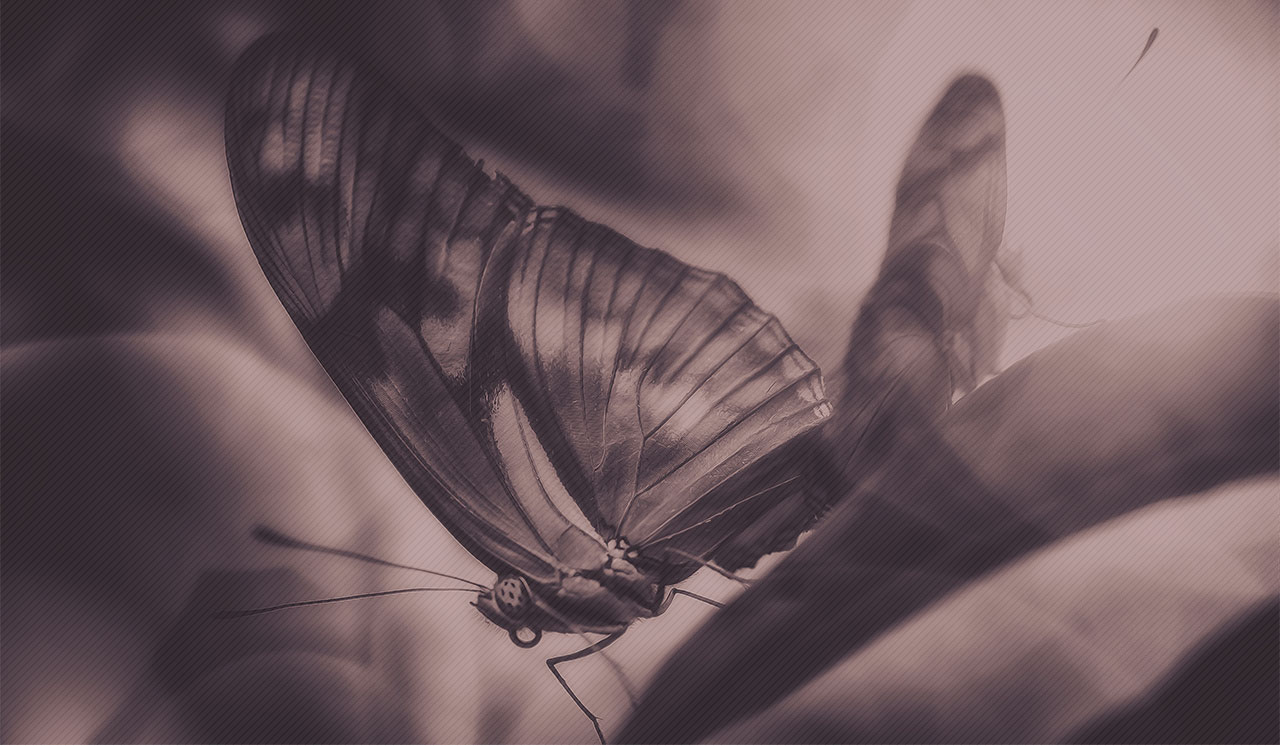
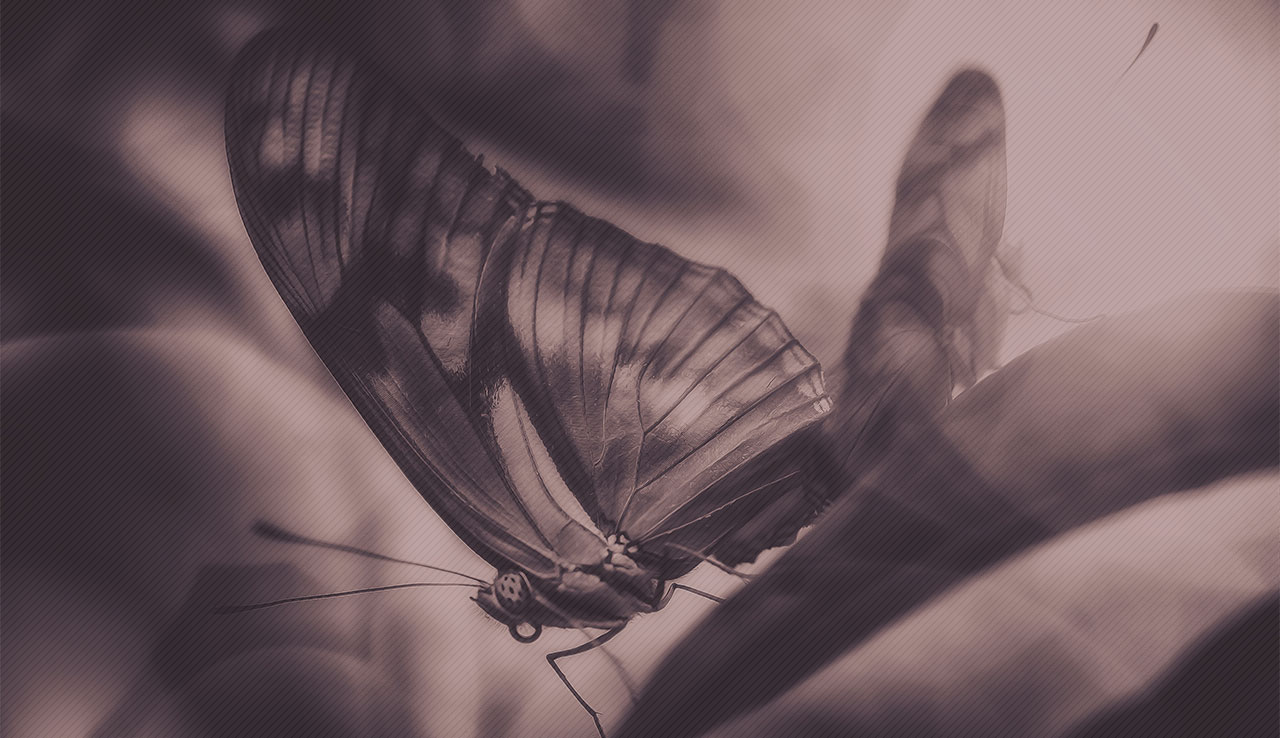
First "working" version

diff --git a/index.html b/index.html
@@ -7,15 +7,28 @@
 
     <title>Pierre-Yves Piron - Accompagnant de la vie émotionnelle</title>
 
+    <link rel="stylesheet" href="https://use.fontawesome.com/releases/v5.7.1/css/all.css" integrity="sha384-fnmOCqbTlWIlj8LyTjo7mOUStjsKC4pOpQbqyi7RrhN7udi9RwhKkMHpvLbHG9Sr"
+        crossorigin="anonymous">
     <link href="https://fonts.googleapis.com/css?family=PT+Sans" rel="stylesheet">
     <link rel="stylesheet" href="https://unpkg.com/purecss@1.0.0/build/pure-min.css">
     <link rel="stylesheet" href="./styles/main.css">
 </head>
 
 <body>
+    <a name="section-1"></a>
     <section class="pure-g home">
         <div class="menu pure-u-1-1">
-            <h1>Pierre-Yves Piron</h1>
+            <div class="pure-g">
+                <div class="pure-u-2-24"></div>
+                <div class="pure-u-3-24 menu-item"><a href="#section-1">Accueil</a></div>
+                <div class="pure-u-3-24 menu-item"><a href="#section-2">La PCER</a></div>
+                <div class="pure-u-8-24">
+                    <img class="pure-img logo" src="./images/avepy-logo.png" alt="Pierre-Yves Piron" />
+                </div>
+                <div class="pure-u-3-24 menu-item"><a href="#section-4">Qui suis-je ?</a></div>
+                <div class="pure-u-3-24 menu-item"><a href="#section-5">Contact</a></div>
+                <div class="pure-u-2-24"></div>
+            </div>
         </div>
         <div class="pure-u-1-1">
             <div class="pure-g">
@@ -24,17 +37,16 @@
                     <div class="quote">
                         <p>
                             « Le premier pas pour avoir ce que vous voulez, c’est d’avoir le courage de quitter ce que
-                            vous
-                            ne voulez plus »
+                            vous ne voulez plus »
                         </p>
                         <p class="author"> - Auteur inconnu</p>
-
                     </div>
                 </div>
             </div>
         </div>
 
     </section>
+    <a name="section-2"></a>
     <section class="pure-g section-1">
 
         <div class="pure-u-1-2"></div>
@@ -46,18 +58,50 @@
                 classique de type psychanalytique, où les blessures d’hier sont le fondement essentiel du chemin vers
                 soi. Vous ne reviendrez que brièvement sur votre histoire de vie. La PCER s’attache aux comportements
                 présents, aux émotions qu’ils engendrent et aux croyances qui les nourrissent. « L'avenir n'est jamais
-                que du présent à mettre en ordre. » (Antoine de Saint-Exupéry ; Citadelle - posthume, 1948) <br />
+                que du présent à mettre en ordre. » (Antoine de Saint-Exupéry ; Citadelle - posthume, 1948)
+            </p>
+            <p>
                 La PCER fait partie des TCC (Thérapie Comportementale et Cognitive), dont Albert Ellis est l’un des
                 pionniers aux Etats-Unis dès les années 50. Son objectif : la prise de conscience du lien entre nos
                 émotions et notre cognitif. Notre système de pensées est constitué de l’ensemble de nos croyances,
                 reçues de notre éducation, imposées ou influencées par les codes de la société ou le fruit de nos
                 cheminements personnels.
             </p>
-            <a href="#" class="pure-button button-primary">En savoir plus</a>
+            <a class="pure-button button-primary button-show-detail" onclick="showMore(this)" data-section="section-2-detail">En
+                savoir plus</a>
+
+            <div id="section-2-detail" class="detail">
+                <p>
+                    La PCER est une véritable boite à outils, élaborée par Albert Ellis, et basée sur le principe de
+                    l’ABC. A étant l’événement déclencheur (Adversities en anglais), B la croyance (Belief en anglais)
+                    et C les effets ou émotions nuisibles (Consequences en anglais). Nous ne maîtrisons pas toujours
+                    les facteurs déclenchants et nos émotions sont spontanées et naturelles. Par contre ce que nous
+                    pensons et ressassons, nos dialogues intérieurs souvent irrationnels, intensifient, déforment et
+                    troublent notre vie émotionnelle. L’essentiel du travail consiste donc à identifier ses
+                    raisonnements ou « croyances » parasites afin de revenir vers un mode de pensée rationnel.
+                </p>
+                <p>
+                    Enfin, la PCER est basée sur un relationnel humain / humain, où l’accompagnant s’implique dans un
+                    dialogue ouvert. Pas de monologue face à une écoute bienveillante, mais beaucoup d’échanges, de
+                    partage d’expérience et d’explications concrètes. Souvent, des « devoirs » sont proposés afin
+                    d’avancer entre les séances de travail ou pour introduire et préparer le thème de la séance
+                    suivante. Le passage à l’écrit est un excellent moyen de fixer et de matérialiser nos ressentis, de
+                    prendre de la distance vis-à-vis de nos raisonnements et des buts que nous nous fixons pour aller
+                    mieux, pas simplement pour se sentir mieux.
+                </p>
+                <p>
+                    Pour aller plus loin : <br />
+                    <a href="http://www.psychologies.com/Moi/Se-connaitre/Comportement/Articles-et-Dossiers/La-PCER-a-l-assaut-de-nos-fausses-croyances">Psycologie.com
+                        - La PCER à l’assaut de nos fausses croyances</a><br />
+                    <a href="http://albertellis.org/">The Albert Ellis Institute</a>
+                </p>
+
+            </div>
         </div>
 
     </section>
 
+    <a name="section-3"></a>
     <section class="pure-g section-2">
 
         <div class="pure-u-3-24"></div>
@@ -114,13 +158,13 @@
 
     </section>
 
-
+    <a name="section-4"></a>
     <section class="pure-g section-4">
 
         <div class="pure-u-3-24"></div>
 
         <div class="pure-u-6-24">
-            <img src="images/avepy-portrait.jpg" />
+            <img class="pure-img" src="images/avepy-portrait.jpg" />
         </div>
 
         <div class="pure-u-1-24"></div>
@@ -137,7 +181,44 @@
                 Mon histoire de vie, comme tant d’autres, a été jalonnée de beaucoup de joies mais aussi de nombreuses
                 épreuves.
             </p>
-            <a href="#" class="pure-button button-primary">En savoir plus</a>
+            <a class="pure-button button-primary button-show-detail" onclick="showMore(this)" data-section="section-4-detail">En
+                savoir plus</a>
+            <div id="section-4-detail" class="detail">
+                <p>
+                    Très jeune, j’ai appris la douleur de la maladie qui frappe et emporte des êtres chers. Plus tard
+                    j’ai connu les difficultés liées à la séparation puis au divorce. J’ai dû également faire face à la
+                    maladie alcoolique dans mon entourage proche. En 2015 enfin, mon licenciement après plus de trente
+                    années de service m’a plongé dans le parcours du combattant d’un demandeur d’emploi et toutes ses
+                    conséquences psychique, sociale et familiale. Par-dessus tout, je connais les troubles et les
+                    effets dévastateurs de la loyauté familiale exacerbée par l’emprise d’un mouvement à caractère
+                    sectaire. J’ai connu 40 ans de manipulation mentale et d’emprisonnement émotionnel au service d’une
+                    « religion » qui se nourrit de la fragilité humaine. Au fil des années, elle a élaboré un système
+                    profondément destructeur, qui étouffe ce qu’il y a de plus intime au fond de chacun de ses membres,
+                    les privant de leur conscience individuelle, de leurs émotions et de leur liberté de penser, de
+                    choisir et d’agir.
+                </p>
+                <p>
+                    Le choix d’une reconversion professionnelle centrée sur la relation d’aide aux personnes fragiles
+                    et en difficulté, m’a conduit en 2016 vers la formation d’AES, Accompagnant Educatif et Social. Je
+                    suis Diplômé d’Etat depuis décembre 2017 et en poste dans un collège en tant qu’Accompagnant
+                    d’Elève en Situation de Handicap depuis avril 2018. Parallèlement, j’ai suivi durant deux ans, une
+                    formation de coach basée sur la PCER ou Psychologie-Cognitive-Emotivo-Rationnelle. En effet, en
+                    proie à des problèmes émotionnels bloquants en lien avec mon histoire de vie, j’ai cherché de
+                    l’aide et ai rencontré Cyril Malka via son site internet (<a href="https://malka.fr">www.malka.fr</a>).
+                    Après seulement quatre mois d’accompagnement durant lesquels nous avons travaillé ensemble, durant
+                    lesquels j’ai pleuré mais également beaucoup ri (l’humour ayant toujours eu malgré tout une place
+                    centrale dans ma vie), j’ai accepté sa proposition de formation. Aider à mon tour, comme je l’ai
+                    été, à sortir de la dictature des émotions pour retrouver rapidement la sérénité à laquelle chacun
+                    d’entre nous aspire, s’est révélé être un passage de relais naturel.
+                </p>
+                <p>
+                    Accompagnant à la Vie Emotionnelle est le terme qui m’a semblé donner son sens à ma démarche.
+                    Désormais apaisé, riche de ces acquis et de mes expériences, je sais aujourd’hui que je peux
+                    réellement vous soutenir pour sortir de la dictature des émotions et venir à bout en quelques mois,
+                    de ces combats intérieurs douloureux, épuisants et bloquants.
+                </p>
+
+            </div>
         </div>
 
     </section>
@@ -148,8 +229,15 @@
         <div class="pure-u-3-24"></div>
 
         <div class="pure-u-18-24 contact content">
-            <h2>Me contacter</h2>
-            
+            <div class="pure-g">
+                <div class="pure-u-8-24"></div>
+                <div class="pure-u-8-24 contact-sheet">
+                    <h2>Me contacter</h2>
+                    <p>Pierre-Yves Piron</p>
+                    <p><a href="mailto:contact@avepy.fr">contact@avepy.fr</a></p>
+                    <p>02 98 12 34 56</p>
+                </div>
+            </div>
         </div>
 
     </section>
@@ -162,6 +250,38 @@
         </div>
     </footer>
 
+
+    <script type="text/javascript">
+
+        function addClass(element, className) {
+
+            const classes = element.className.split(' ');
+            if (classes.indexOf(className) === -1) {
+                element.className += ' ' + className;
+            }
+        }
+
+        function showMore(element) {
+
+            if (!element.dataset || !element.dataset.section) {
+                console.error('Missing "data-section" attribute.');
+                return false;
+            }
+
+            const section = document.getElementById(element.dataset.section);
+            if (!section) {
+                console.error(`Failed to find "${element.dataset.section}" in document`)
+                return false;
+            }
+
+            const className = 'more';
+
+            addClass(element, className);
+            addClass(section, className);
+
+            return false;
+        }
+    </script>
 </body>
 
 </html>

diff --git a/styles/main.css b/styles/main.css
@@ -1,6 +1,6 @@
 body {
     font-family: 'Myriad Pro', 'PT Sans', sans-serif;
-    color: #33282c;
+    color: #373737;
     line-height: 1.5em;
 }
 
@@ -22,16 +22,39 @@ h2 {
     background-image: url('../images/avepy-home-background.jpg');
     background-repeat: no-repeat;
     background-size: 100vw;
-    height: 100vh;
+    min-height: 100vh;
+}
+
+.logo {
+    margin: auto;
 }
 
 .menu {
     text-align: center;
     margin: 4em 0 8em; 
+    vertical-align: center;
+}
+
+.menu-item {
+    display: -webkit-box;   /* OLD: Safari,  iOS, Android browser, older WebKit browsers.  */
+    display: -moz-box;      /* OLD: Firefox (buggy) */
+    display: -ms-flexbox;   /* MID: IE 10 */
+    display: -webkit-flex;  /* NEW, Chrome 21–28, Safari 6.1+ */
+    display: flex; 
+}
+
+.menu-item a, .menu-item a:hover, .menu-item a:visited {
+    text-align: center;
+    margin: auto;
+    font-size: 1.1em;
+    color: white;
+    text-transform: uppercase;
+    text-decoration: none;
 }
 
 .pure-g [class*=pure-u] {
     font-family: 'Myriad Pro', 'PT Sans', sans-serif;
+
 }
 
 .content {
@@ -64,6 +87,18 @@ h2 {
     color: white;
 }
 
+.section-1 {
+    background-image: url('../images/avepy-part1-background.jpg');
+    background-repeat: no-repeat;
+    background-color: #f5f6f8;
+}
+
+.section-2 {
+    background-image: url('../images/avepy-part2-background.jpg');
+    background-repeat: no-repeat;
+    background-position-x: 100%;
+}
+
 .section-2 h3 {
     font-style: italic;
     margin-bottom: 0;
@@ -85,23 +120,56 @@ h2 {
 
 .section-3 {
     color: white;
-    background-image: url('../images/avepy-home-background.jpg');
+    background-image: url('../images/avepy-part3-background.jpg');
     background-repeat: no-repeat;
     background-size: 100vw;
+    font-size: 1.2em;
 }
 
 .section-3 p {
     font-style: italic;
 }
 
+.section-4 {
+    background-color: #f5f6f7;
+}
+
 .section-5 {
     background-image: url('../images/avepy-contact-background.jpg');
     background-repeat: no-repeat;
     background-size: 100vw;
+    min-height: 40em;
+}
+
+.section-5 h2 {
+    color:white;
+    font-weight: bold;
+    font-size: 1.5em;
+}
+
+.contact-sheet {
+    padding: 2em;
+    font-size: 1.2em;
+}
+
+.detail {
+    overflow: hidden;
+    -webkit-transition: max-height 0.8s;
+	-moz-transition: max-height 0.8s;
+	transition: max-height 0.8s;
+    max-height: 0;
+}
+
+.detail.more {    
+    max-height:9000em;
+}
+
+.button-show-detail.more {
+    display: none;
 }
 
 footer {
-    margin-top: 1em;
+    margin-top: 5em;
 }
 
 .credits {
@@ -110,6 +178,6 @@ footer {
 }
 
 footer a{
-    color: #33282c;
+    color: #373737;
     text-transform: uppercase;
 }
